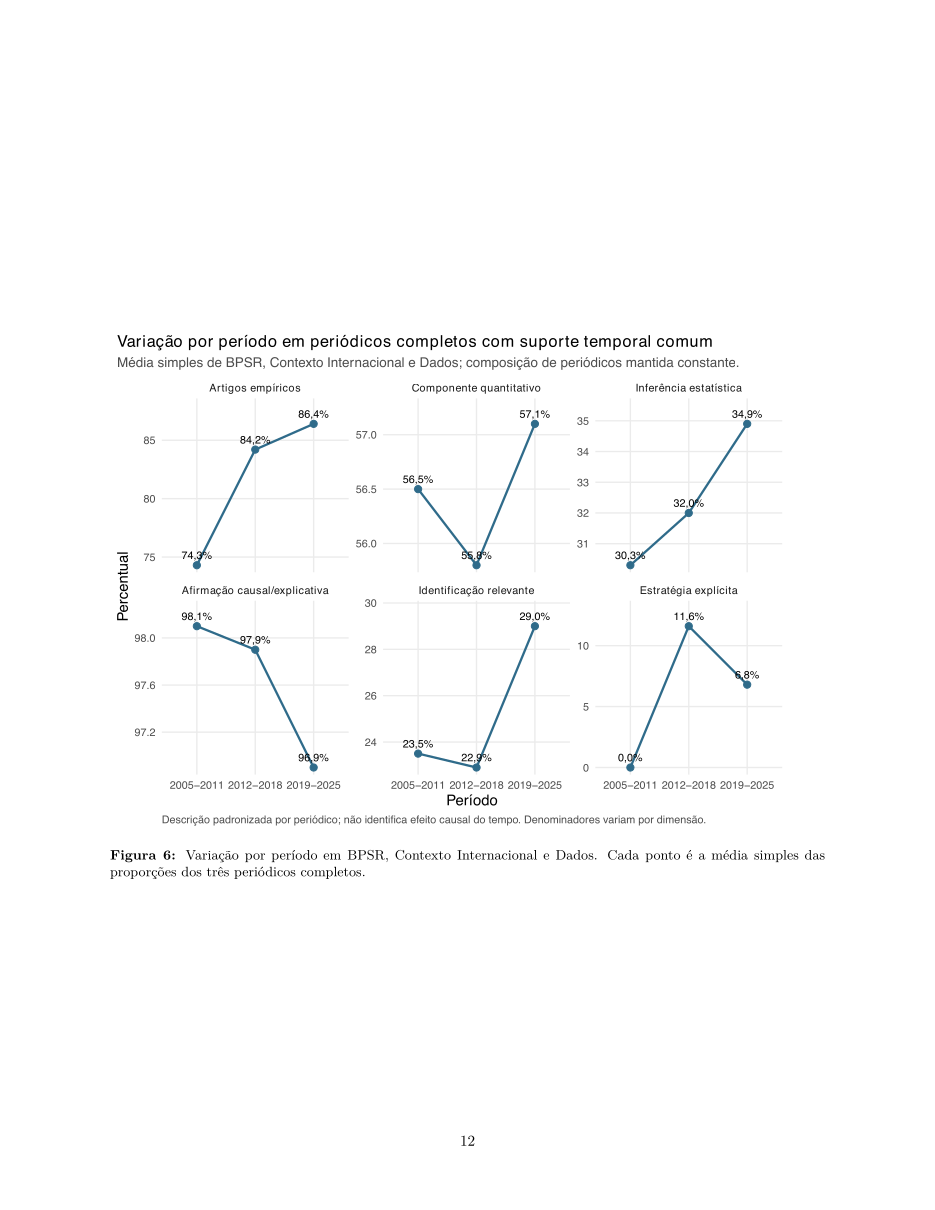
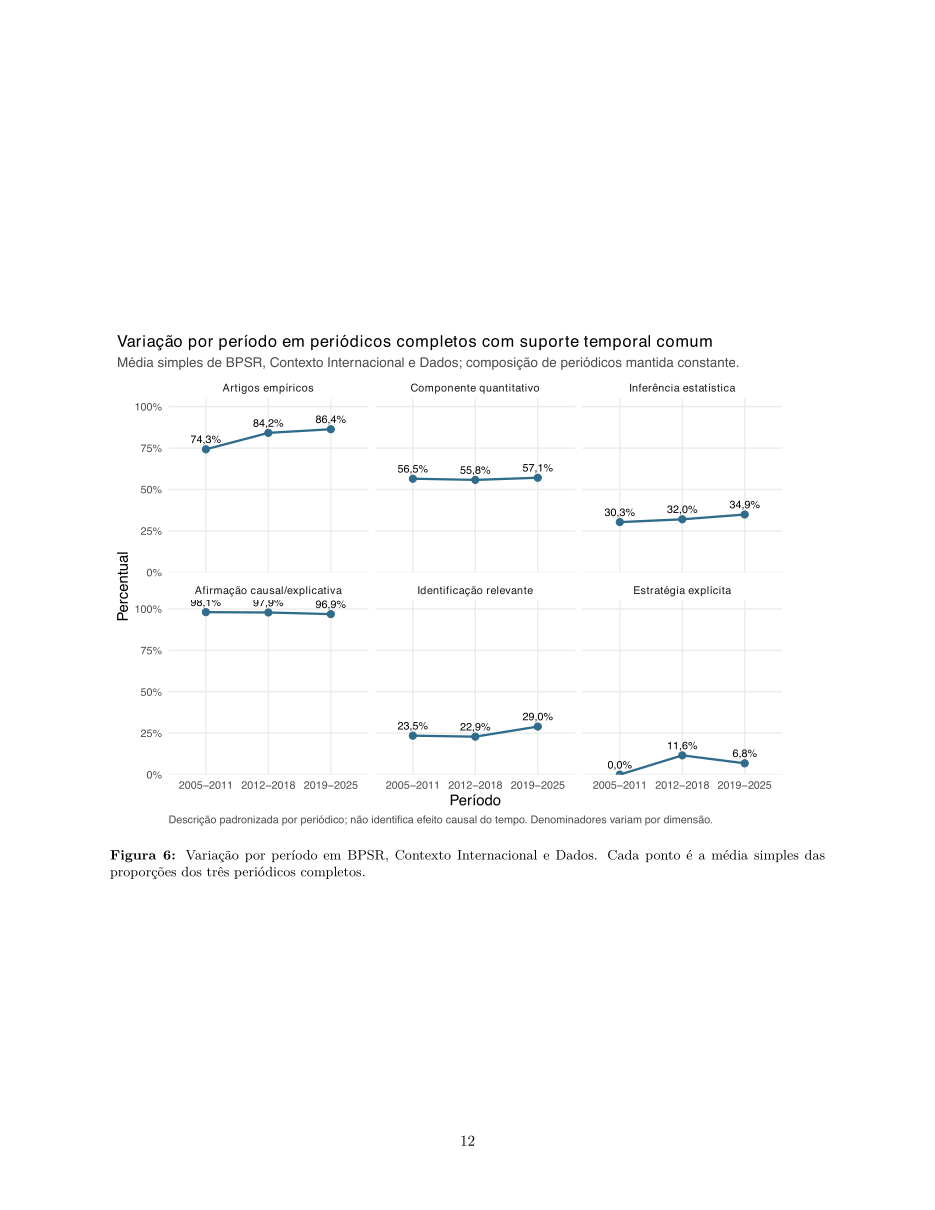
chore: codex checkpoint (session-stop)
Automatic Codex checkpoint at 2026-07-13 11:59:04.

Reason: session-stop.

diff --git a/quality_reports/paper_variable_audit/current_canonical_analysis_audit.md b/quality_reports/paper_variable_audit/current_canonical_analysis_audit.md
@@ -1,6 +1,6 @@
 # Atualização analítica do paper com o CSV canônico
 
-Gerado em: 2026-07-13 11:46:44 -0300
+Gerado em: 2026-07-13 11:57:33 -0300
 
 ## Universo reconciliado
 